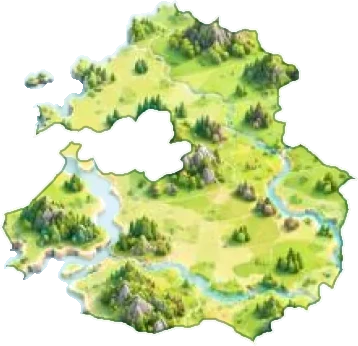
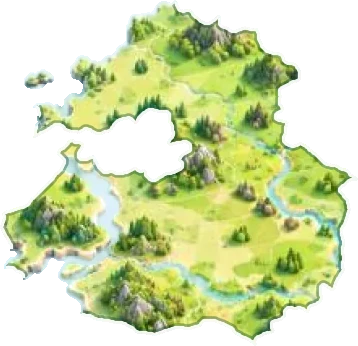
style: 지도 도 경계선을 더 굵게 (기본 지도에서 약 1.8dp)
폰에서 보니 기본 지도(B1) 크기에서 선이 가늘어 도 구분이 약했다. 흰 선 4.2→6.2px, 테두리 8.5→11.5px.

diff --git a/scripts/korea-map/build.py b/scripts/korea-map/build.py
@@ -40,8 +40,8 @@ SIDO = {
 METRO = {"11", "26", "27", "28", "29", "30", "31", "36"}
 # 그림 밖으로 계산되는 울릉군은 그림 동해의 바위섬(핀 자리 1049,451 근처)에 붙입니다.
 ULLEUNG = ("47940", (1049, 451))
-LINE_CORE = 4.2  # 흰 경계선 두께(px, 그림 기준)
-LINE_HALO = 8.5  # 그 아래 어두운 테두리 두께
+LINE_CORE = 6.2  # 흰 경계선 두께(px, 그림 기준) — 기본 지도에서 약 1.8dp
+LINE_HALO = 11.5  # 그 아래 어두운 테두리 두께
 
 
 def affine(lng, lat):
